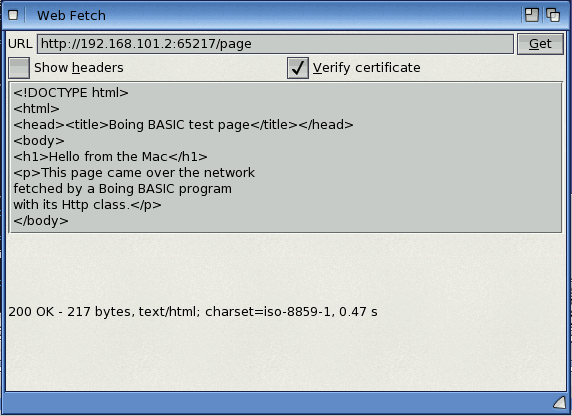
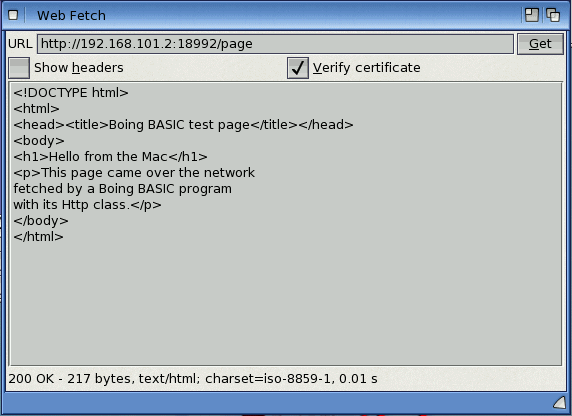
manual: webfetch's status label keeps its height (weight=0, #77): the book copy, the chapter 19 listing and the new guest screenshot

diff --git a/docs/manual/19-networking.md b/docs/manual/19-networking.md
@@ -273,7 +273,7 @@ vlayout id=root
     checkbox id=headers text="Show _headers"
     checkbox id=verify text="_Verify certificate" checked=1
   texteditor id=page
-  label id=status text="Type a URL and press Get"
+  label id=status text="Type a URL and press Get" weight=0
 ```
 
 and its code:
